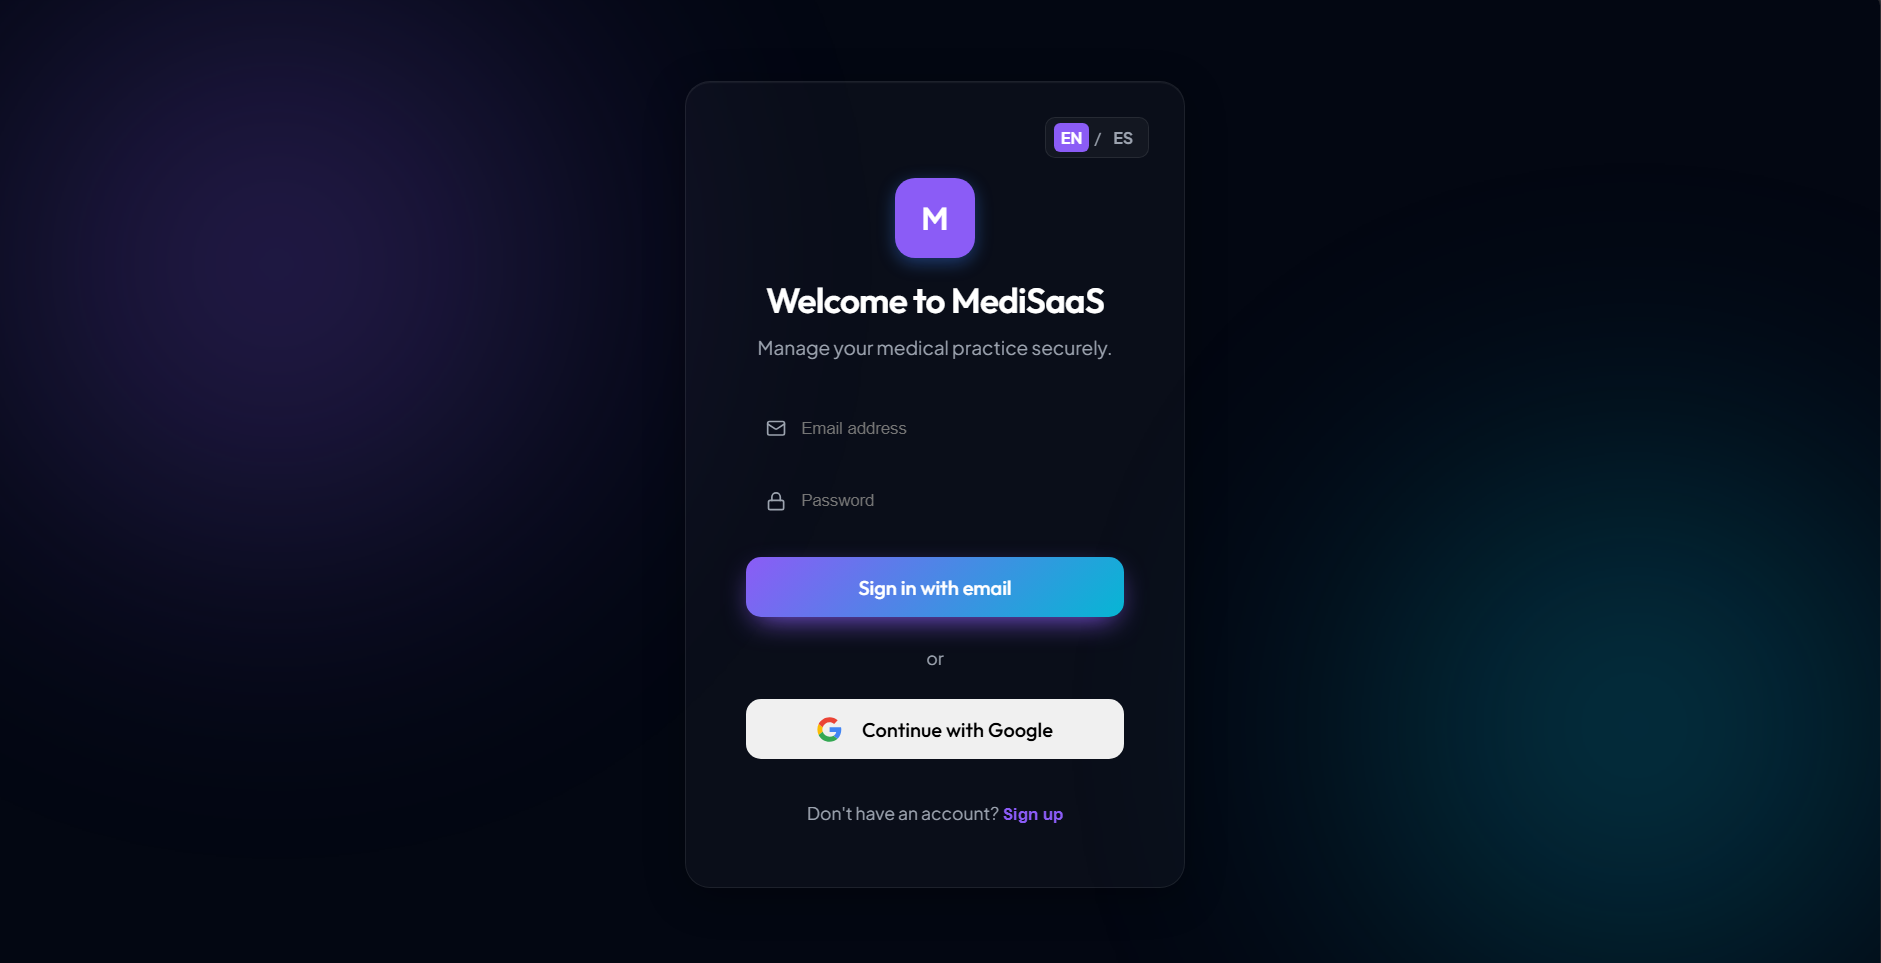
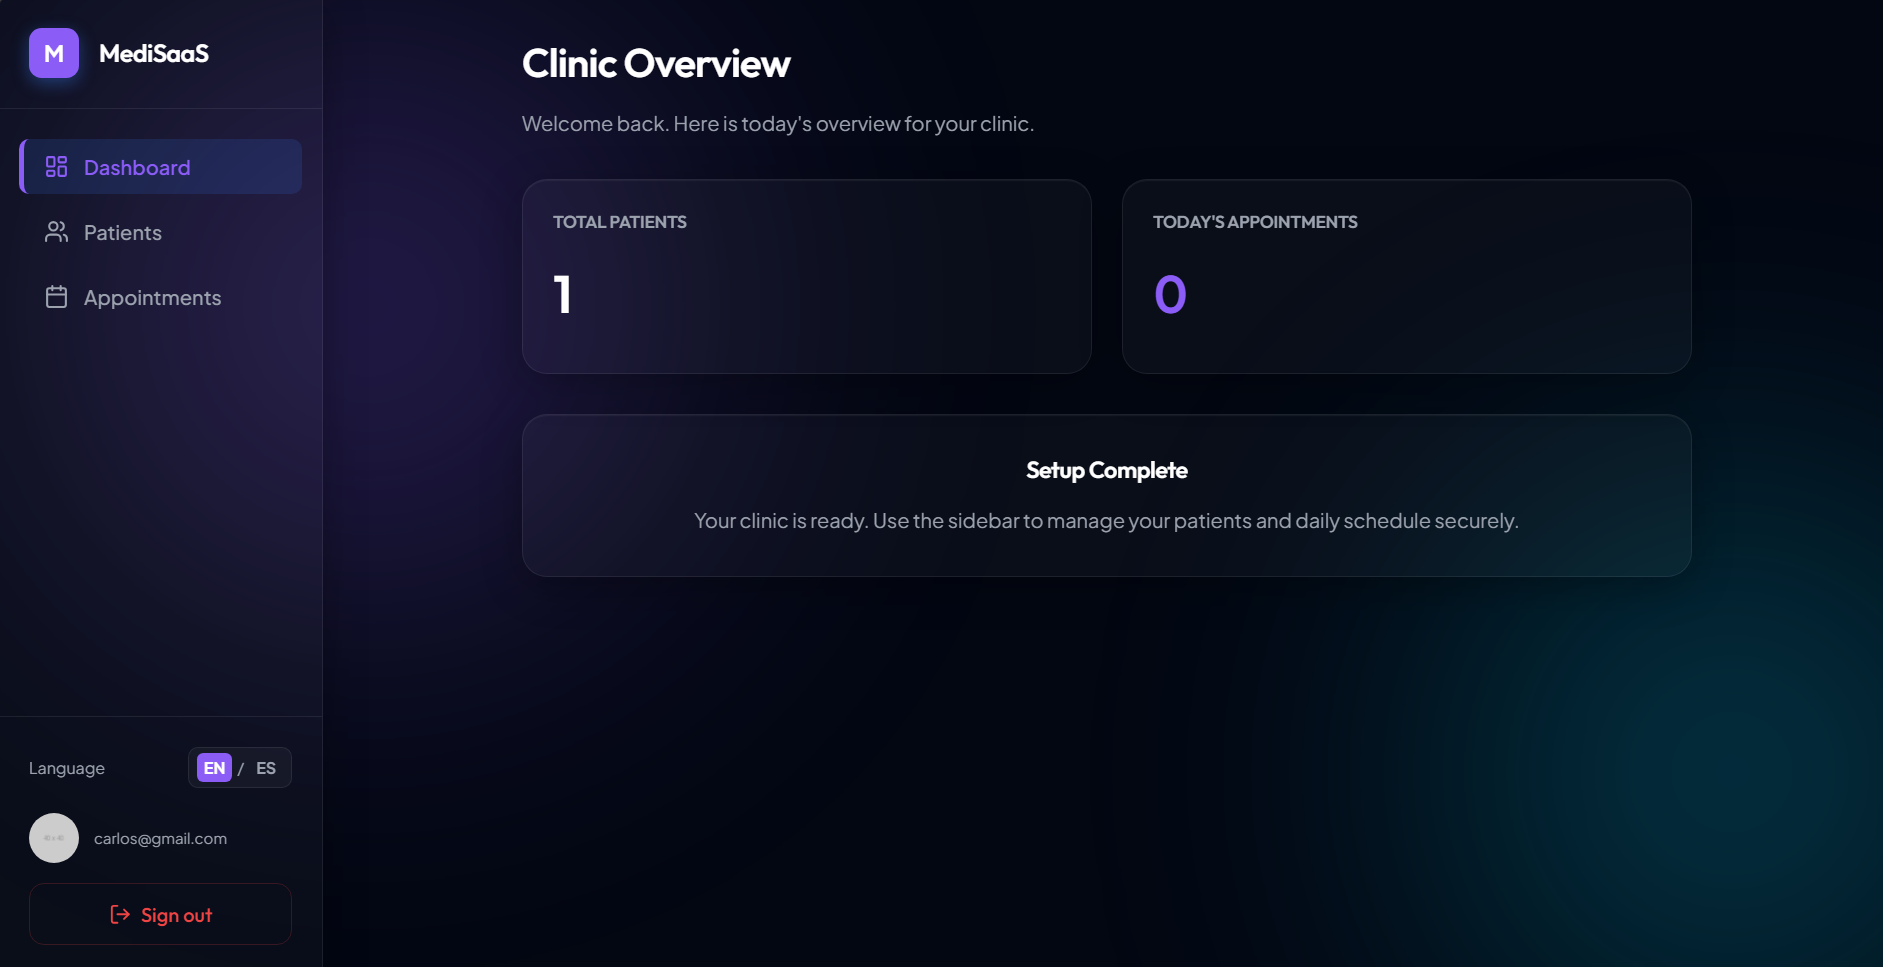
Use four MediSaaS screenshots

diff --git a/src/data/projects.ts b/src/data/projects.ts
@@ -307,12 +307,11 @@ export const projectsES: Project[] = [
       title: 'Cuenta demo / sandbox:',
       content: 'Datos de prueba simulados. Correo demo: carlos@gmail.com • Contraseña: 123456 (datos locales, no contiene información médica real).'
     },
-    image: '/images/projects/medisaas.svg',
+    image: '/images/projects/medisaas1.png',
     gallery: [
       '/images/projects/medisaas2.png',
       '/images/projects/medisaas3.png',
-      '/images/projects/medisaas4.png',
-      '/images/projects/medisaas5.png'
+      '/images/projects/medisaas4.png'
     ]
   },
 
@@ -620,12 +619,11 @@ export const projectsEN: Project[] = [
       title: 'Demo account / sandbox:',
       content: 'Simulated dummy data. Demo email: carlos@gmail.com • Password: 123456 (local demonstration storage, zero real medical records).'
     },
-    image: '/images/projects/medisaas.svg',
+    image: '/images/projects/medisaas1.png',
     gallery: [
       '/images/projects/medisaas2.png',
       '/images/projects/medisaas3.png',
-      '/images/projects/medisaas4.png',
-      '/images/projects/medisaas5.png'
+      '/images/projects/medisaas4.png'
     ]
   },
 
